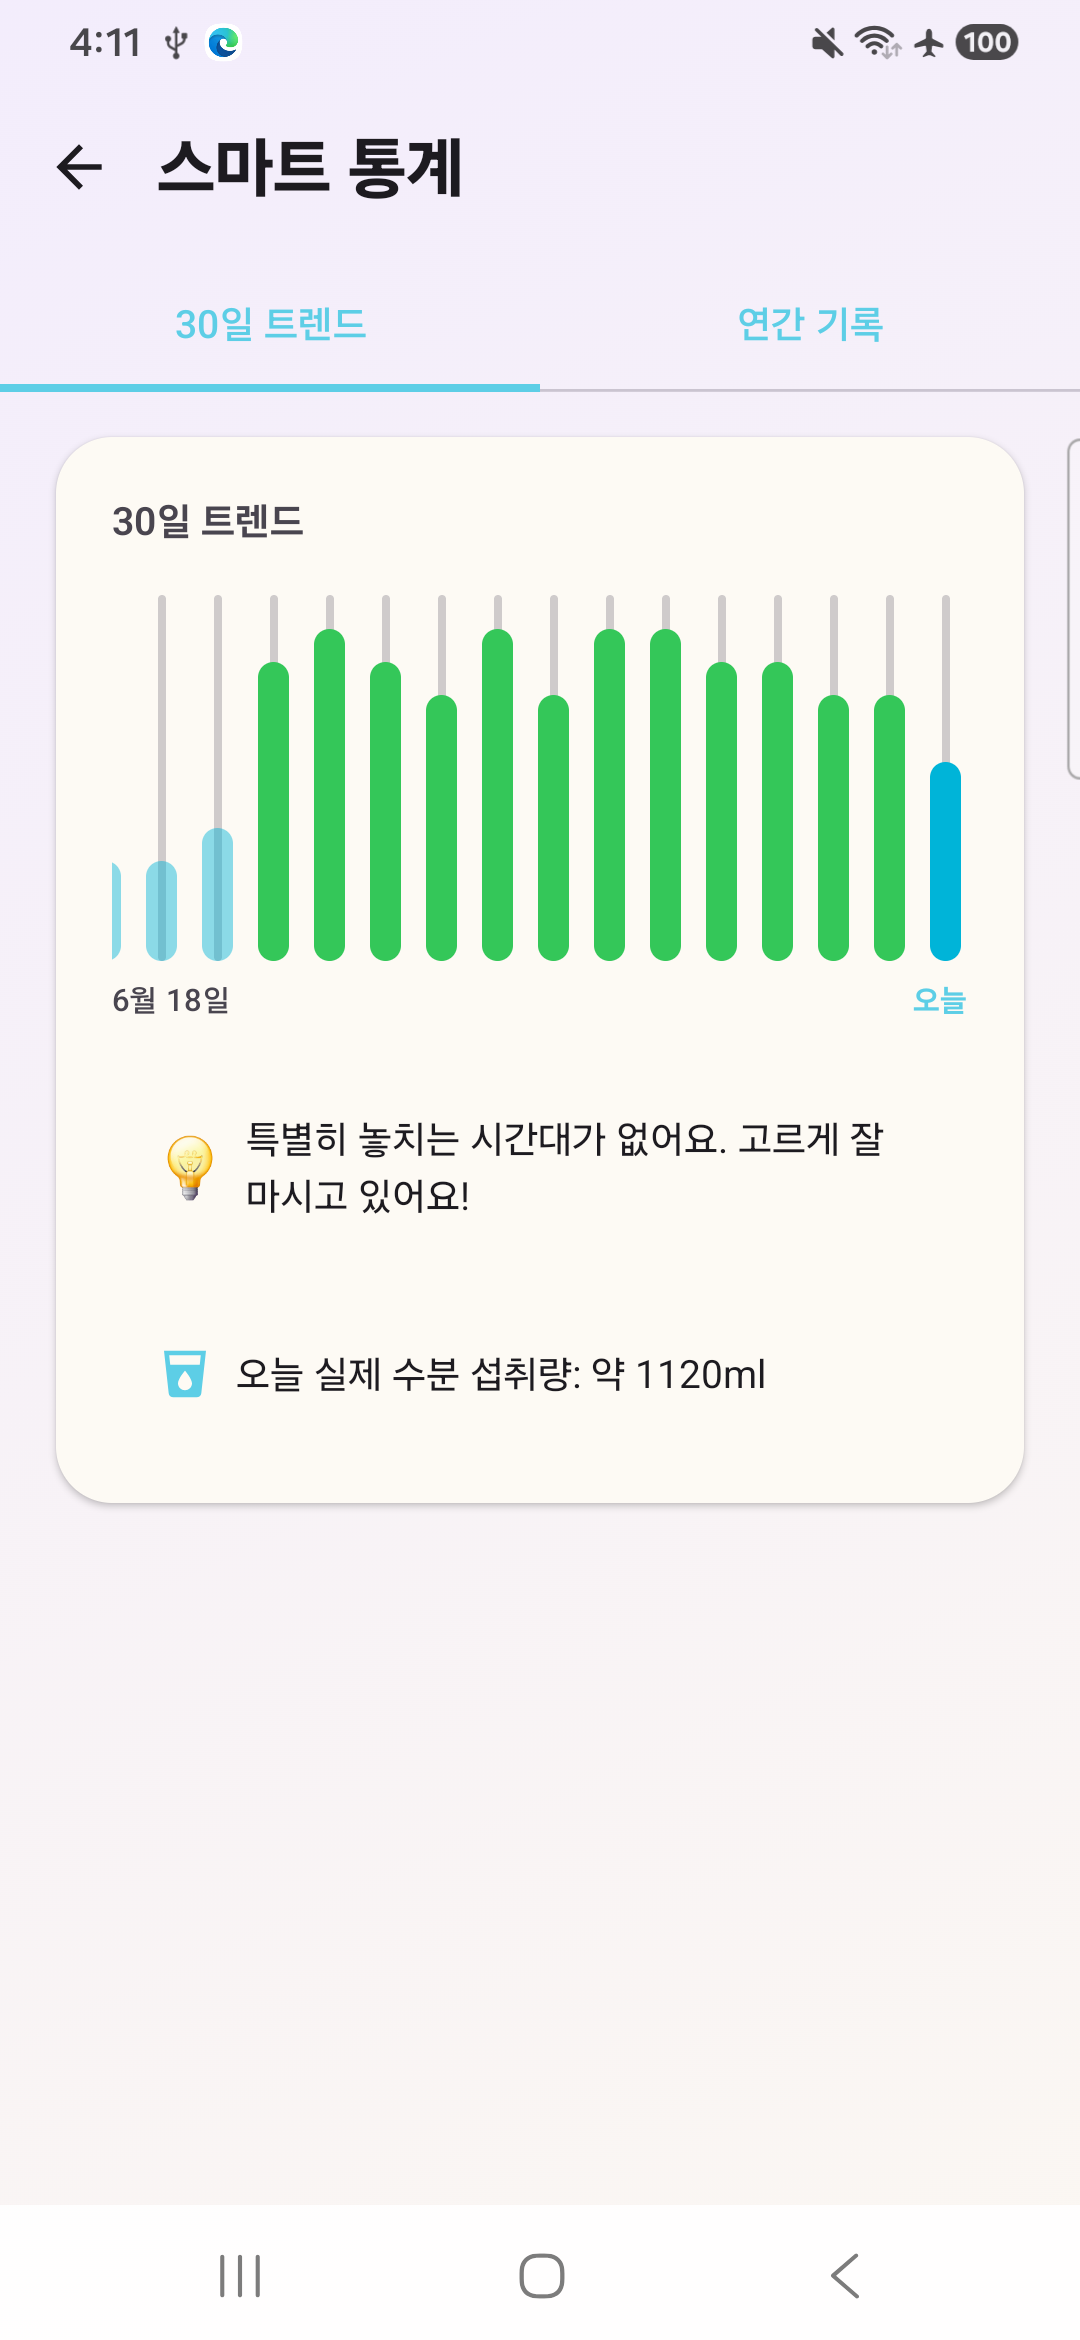
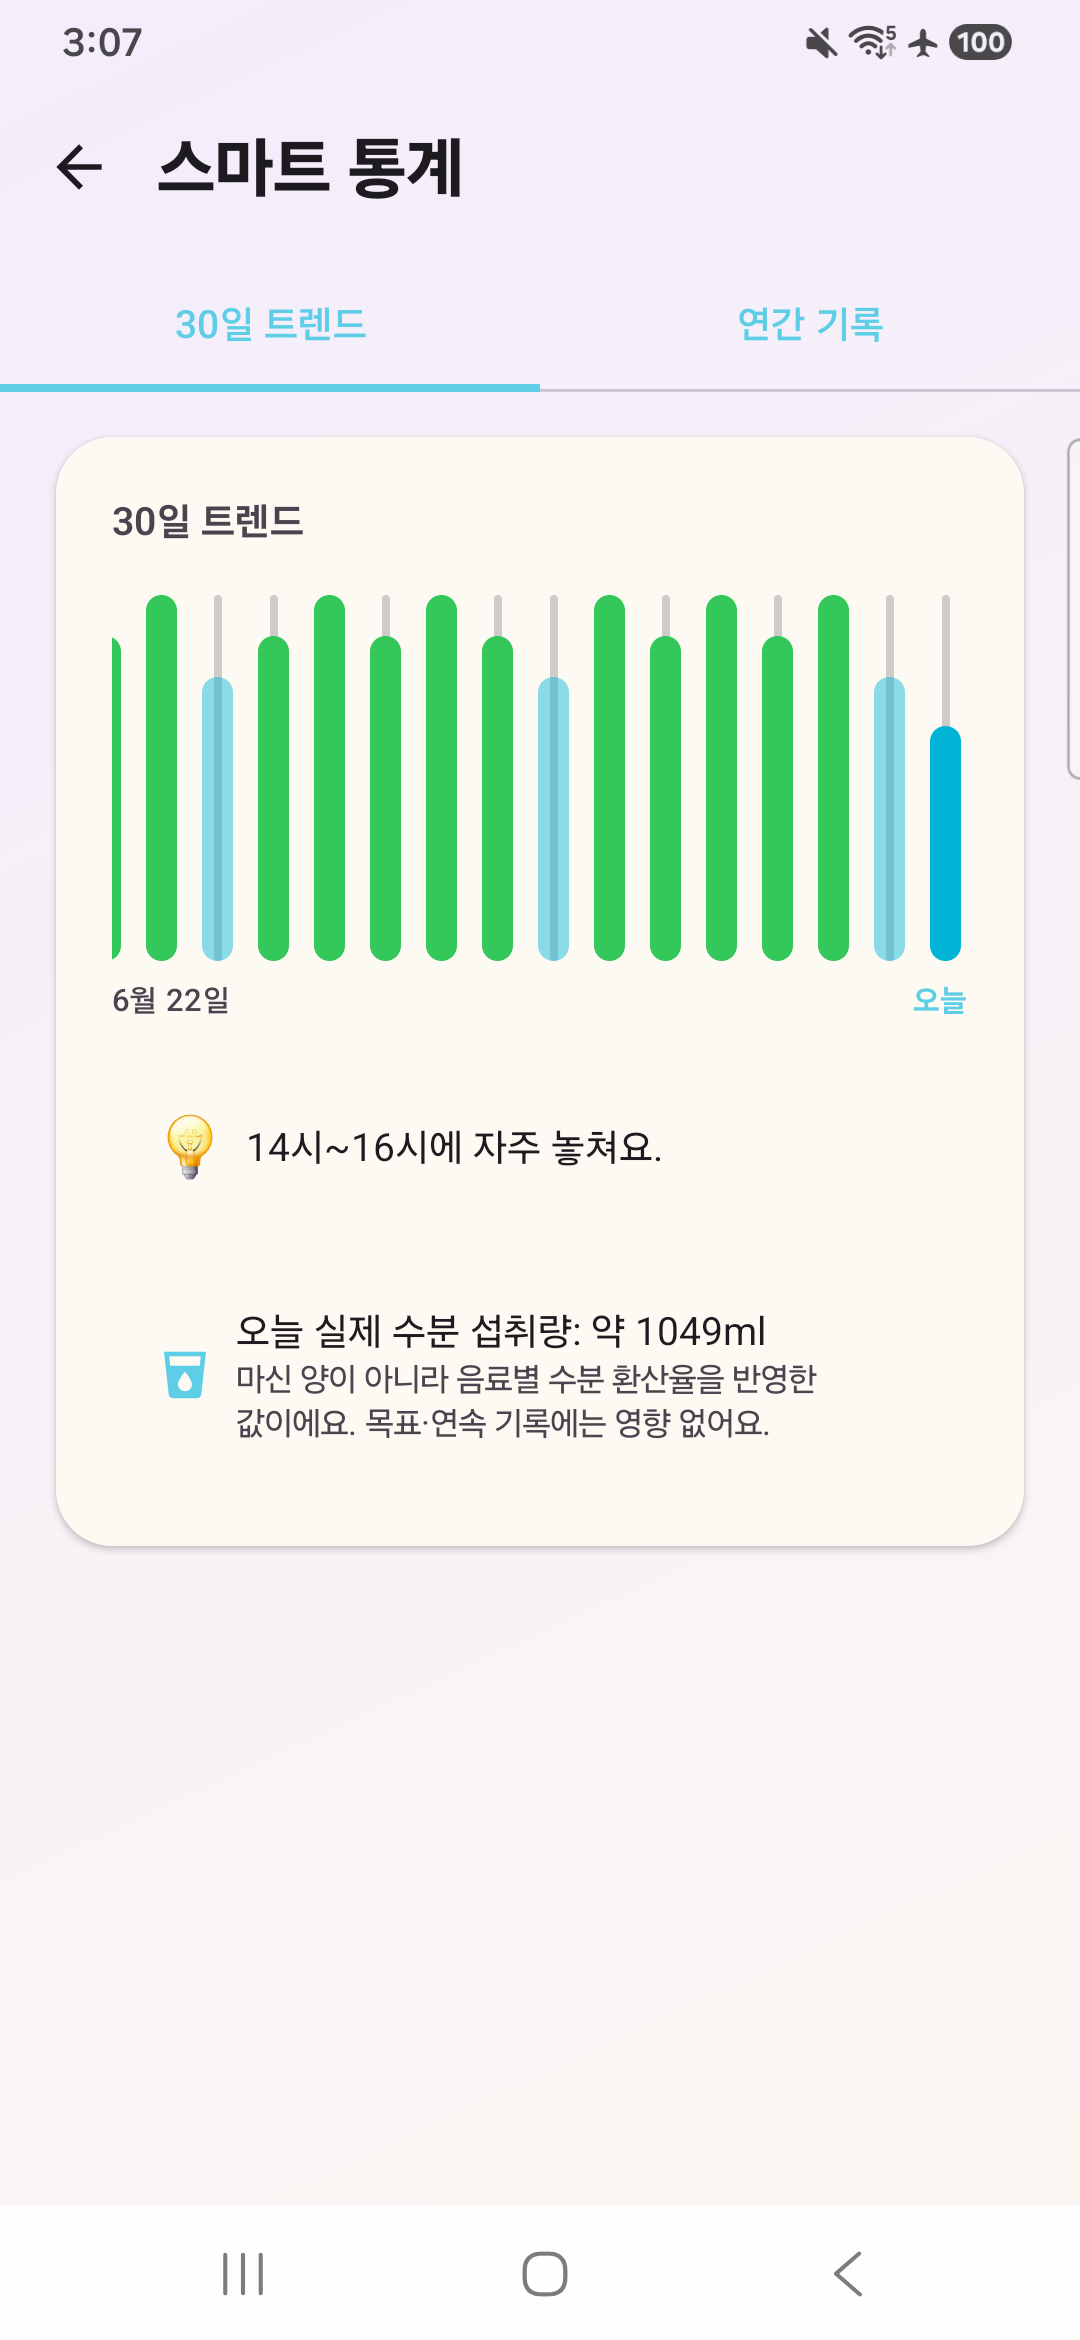
[chore] 스마트 통계 스토어 스크린샷 재촬영
수분 환산율 고지 캡션(오늘 추가)이 반영 안 된 04_smart_stats.png를
실기기에서 재촬영. 스토리보드는 이미지 경로만 참조해 별도 수정 불필요.

diff --git a/docs/개발보고서.md b/docs/개발보고서.md
@@ -1,5 +1,16 @@
 # 워터링 Android 개발보고서
 
+> 마지막 업데이트: 2026-07-21, **스토어 스크린샷 최신화 점검 + `04_smart_stats.png` 재촬영**.
+> 오늘 추가한 수분 환산율 고지 캡션이 8개 스토어 스크린샷 중 `04_smart_stats.png`에만 반영 안 돼
+> 있는 걸 발견 — 실기기에 일회성 `ScreenshotSeedTest.kt`(촬영 후 삭제)로 29일치 기록 + 오늘
+> 물/커피 혼합 기록·연속 12일(최장 26일, 다른 스크린샷과 값 통일)을 심어 온보딩부터 스마트 통계
+> 화면까지 수동 재현 후 재촬영. **부수적으로 발견/수정**: `connectedDebugAndroidTest` Gradle
+> 태스크가 테스트 실행 후 앱을 자동 삭제해 시딩한 데이터가 함께 날아가는 문제 — `installDebug
+> installDebugAndroidTest`(설치만) 후 `adb shell am instrument`로 직접 실행하는 방식으로 우회.
+> `screenshot_storyboard.html`은 이미지 파일 경로만 참조하는 구조라 별도 텍스트 수정 불필요,
+> 웹 목업으로 결과 확인 완료. 나머지 7개 스크린샷은 오늘 변경 사항과 대조해 이상 없음 확인
+> (`bonus_annual_heatmap.png`은 미확인).
+>
 > 마지막 업데이트: 2026-07-21, **비공개 테스트 릴리즈(v1.0.6) 게시 완료** — owner가 Play Console
 > 비공개 테스트 트랙 업로드를 마무리 지음. 이어서 온보딩 컵 크기 옵션을 설정 화면 프리셋과 통일,
 > 수분 환산율(`hydrationRate`) 정책 확정 + 사용자 고지 추가, 위젯 추가 화면 미리보기 버그 수정에
